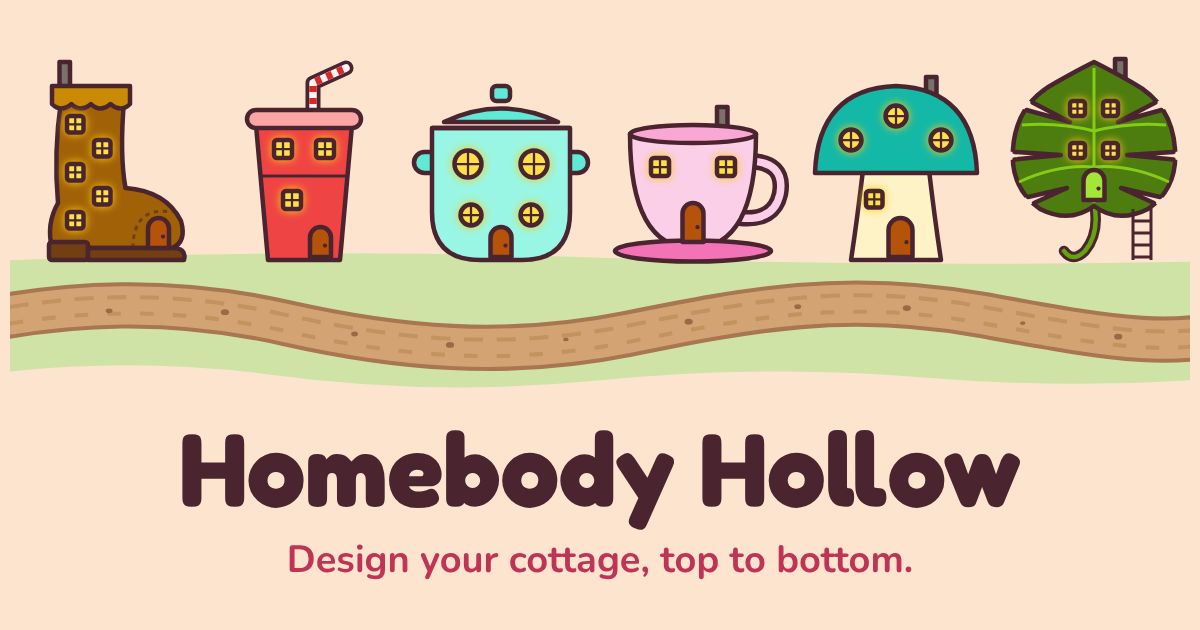
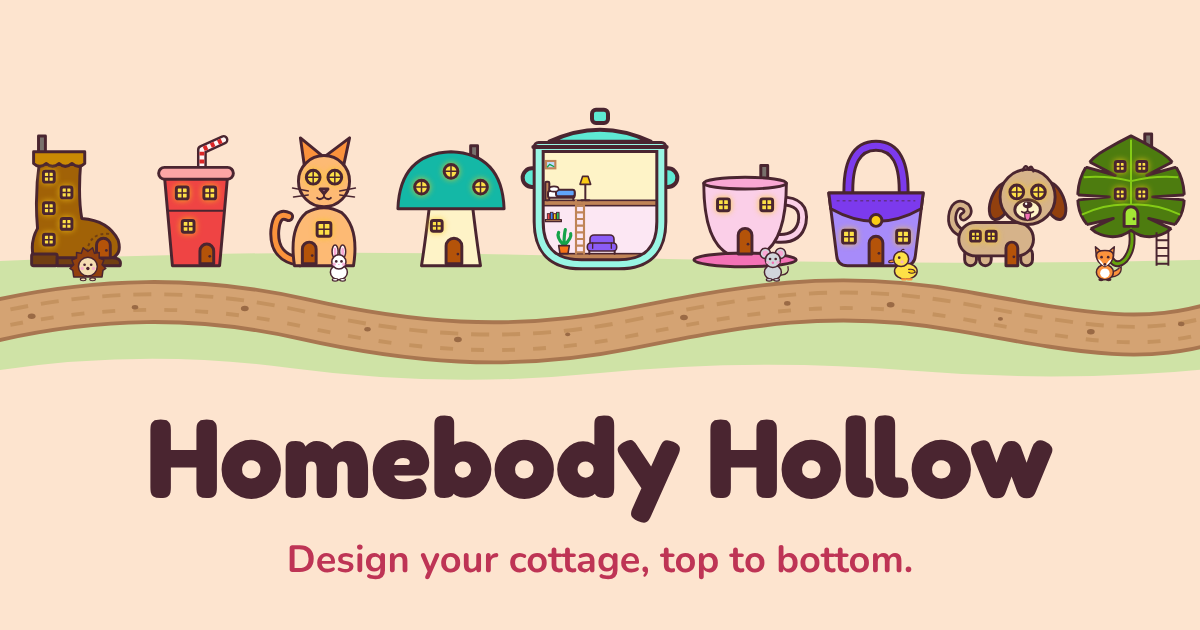
Redraw the shared-link picture, and say what the game is now
The picture a shared link shows had only the first six cottages. It now
has all nine by the road, the pot cut open to show its furnished rooms,
and friends at some of their doors, drawn from the game's own cottages,
rooms and friends. Every page's description of it says so.

The home page's, studio's and village's descriptions (and the ones links
show) now mention furnishing the rooms and picking a friend to move in,
not only painting.

The home-screen and PNG tab icons are the teacup cottage, which hasn't
changed, so they stay as they are.

Claude-Session: https://claude.ai/code/session_01At4zm2UMvYgahaA4U4Be5F

diff --git a/public/index.html b/public/index.html
@@ -4,18 +4,18 @@
     <meta charset="utf-8" />
     <meta name="viewport" content="width=device-width, initial-scale=1" />
     <title>Homebody Hollow: A Tiny Cottage Game</title>
-    <meta name="description" content="A free cozy game you play in your browser: pick a tiny cottage made from something else, like a boot or a teacup, and design it your way." />
+    <meta name="description" content="A free cozy game you play in your browser: build tiny cottages from a boot, a teacup or a mushroom, paint them, furnish their rooms, and pick a friend to move in." />
     <link rel="canonical" href="https://jessicasogge.github.io/homebody-hollow/" />
     <!-- How the link looks when it's shared (iMessage, Slack, Discord, social media) -->
     <meta property="og:type" content="website" />
     <meta property="og:site_name" content="Homebody Hollow" />
     <meta property="og:title" content="Homebody Hollow: A Tiny Cottage Game" />
-    <meta property="og:description" content="A free cozy game you play in your browser: pick a tiny cottage made from something else, like a boot or a teacup, and design it your way." />
+    <meta property="og:description" content="A free cozy game you play in your browser: build tiny cottages from a boot, a teacup or a mushroom, paint them, furnish their rooms, and pick a friend to move in." />
     <meta property="og:url" content="https://jessicasogge.github.io/homebody-hollow/" />
     <meta property="og:image" content="https://jessicasogge.github.io/homebody-hollow/social-preview.png" />
     <meta property="og:image:width" content="1200" />
     <meta property="og:image:height" content="630" />
-    <meta property="og:image:alt" content="Six tiny cottages made from a boot, a soda cup, a cooking pot, a teacup, a mushroom and a monstera leaf, on the grass by a dirt road, above the words Homebody Hollow: Design your cottage, top to bottom." />
+    <meta property="og:image:alt" content="Nine tiny cottages made from a boot, a soda cup, a cat, a mushroom, a cooking pot cut open to show its furnished rooms, a teacup, a handbag, a puppy and a monstera leaf, with little animal friends at their doors, on the grass by a dirt road, above the words Homebody Hollow: Design your cottage, top to bottom." />
     <meta name="twitter:card" content="summary_large_image" />
     <link rel="icon" href="./favicon.svg" type="image/svg+xml" />
     <link rel="icon" href="./favicon-32.png" type="image/png" sizes="32x32" />

diff --git a/public/design.html b/public/design.html
@@ -4,18 +4,18 @@
     <meta charset="utf-8" />
     <meta name="viewport" content="width=device-width, initial-scale=1" />
     <title>Homebody Hollow | Design Your Cottage</title>
-    <meta name="description" content="Design your tiny cottage in Homebody Hollow: pick a color and a pattern, paint any part of it, then move it into your village." />
+    <meta name="description" content="Design your tiny cottage in Homebody Hollow: paint it any color and pattern, furnish its rooms, pick a friend to move in, then move it into your village." />
     <link rel="canonical" href="https://jessicasogge.github.io/homebody-hollow/design.html" />
     <!-- How the link looks when it's shared (iMessage, Slack, Discord, social media) -->
     <meta property="og:type" content="website" />
     <meta property="og:site_name" content="Homebody Hollow" />
     <meta property="og:title" content="Homebody Hollow | Design Your Cottage" />
-    <meta property="og:description" content="Design your tiny cottage in Homebody Hollow: pick a color and a pattern, paint any part of it, then move it into your village." />
+    <meta property="og:description" content="Design your tiny cottage in Homebody Hollow: paint it any color and pattern, furnish its rooms, pick a friend to move in, then move it into your village." />
     <meta property="og:url" content="https://jessicasogge.github.io/homebody-hollow/design.html" />
     <meta property="og:image" content="https://jessicasogge.github.io/homebody-hollow/social-preview.png" />
     <meta property="og:image:width" content="1200" />
     <meta property="og:image:height" content="630" />
-    <meta property="og:image:alt" content="Six tiny cottages made from a boot, a soda cup, a cooking pot, a teacup, a mushroom and a monstera leaf, on the grass by a dirt road, above the words Homebody Hollow: Design your cottage, top to bottom." />
+    <meta property="og:image:alt" content="Nine tiny cottages made from a boot, a soda cup, a cat, a mushroom, a cooking pot cut open to show its furnished rooms, a teacup, a handbag, a puppy and a monstera leaf, with little animal friends at their doors, on the grass by a dirt road, above the words Homebody Hollow: Design your cottage, top to bottom." />
     <meta name="twitter:card" content="summary_large_image" />
     <link rel="icon" href="./favicon.svg" type="image/svg+xml" />
     <link rel="icon" href="./favicon-32.png" type="image/png" sizes="32x32" />

diff --git a/public/village.html b/public/village.html
@@ -4,18 +4,18 @@
     <meta charset="utf-8" />
     <meta name="viewport" content="width=device-width, initial-scale=1" />
     <title>Homebody Hollow | Your Village</title>
-    <meta name="description" content="Your village in Homebody Hollow: six lots by a dirt road, each waiting for a cottage you design." />
+    <meta name="description" content="Your village in Homebody Hollow: six lots by a dirt road, each waiting for a cottage you design and a friend to live in it." />
     <link rel="canonical" href="https://jessicasogge.github.io/homebody-hollow/village.html" />
     <!-- How the link looks when it's shared (iMessage, Slack, Discord, social media) -->
     <meta property="og:type" content="website" />
     <meta property="og:site_name" content="Homebody Hollow" />
     <meta property="og:title" content="Homebody Hollow | Your Village" />
-    <meta property="og:description" content="Your village in Homebody Hollow: six lots by a dirt road, each waiting for a cottage you design." />
+    <meta property="og:description" content="Your village in Homebody Hollow: six lots by a dirt road, each waiting for a cottage you design and a friend to live in it." />
     <meta property="og:url" content="https://jessicasogge.github.io/homebody-hollow/village.html" />
     <meta property="og:image" content="https://jessicasogge.github.io/homebody-hollow/social-preview.png" />
     <meta property="og:image:width" content="1200" />
     <meta property="og:image:height" content="630" />
-    <meta property="og:image:alt" content="Six tiny cottages made from a boot, a soda cup, a cooking pot, a teacup, a mushroom and a monstera leaf, on the grass by a dirt road, above the words Homebody Hollow: Design your cottage, top to bottom." />
+    <meta property="og:image:alt" content="Nine tiny cottages made from a boot, a soda cup, a cat, a mushroom, a cooking pot cut open to show its furnished rooms, a teacup, a handbag, a puppy and a monstera leaf, with little animal friends at their doors, on the grass by a dirt road, above the words Homebody Hollow: Design your cottage, top to bottom." />
     <meta name="twitter:card" content="summary_large_image" />
     <link rel="icon" href="./favicon.svg" type="image/svg+xml" />
     <link rel="icon" href="./favicon-32.png" type="image/png" sizes="32x32" />

diff --git a/public/pick-a-cottage.html b/public/pick-a-cottage.html
@@ -15,7 +15,7 @@
     <meta property="og:image" content="https://jessicasogge.github.io/homebody-hollow/social-preview.png" />
     <meta property="og:image:width" content="1200" />
     <meta property="og:image:height" content="630" />
-    <meta property="og:image:alt" content="Six tiny cottages made from a boot, a soda cup, a cooking pot, a teacup, a mushroom and a monstera leaf, on the grass by a dirt road, above the words Homebody Hollow: Design your cottage, top to bottom." />
+    <meta property="og:image:alt" content="Nine tiny cottages made from a boot, a soda cup, a cat, a mushroom, a cooking pot cut open to show its furnished rooms, a teacup, a handbag, a puppy and a monstera leaf, with little animal friends at their doors, on the grass by a dirt road, above the words Homebody Hollow: Design your cottage, top to bottom." />
     <meta name="twitter:card" content="summary_large_image" />
     <link rel="icon" href="./favicon.svg" type="image/svg+xml" />
     <link rel="icon" href="./favicon-32.png" type="image/png" sizes="32x32" />

diff --git a/public/visit.html b/public/visit.html
@@ -15,7 +15,7 @@
     <meta property="og:image" content="https://jessicasogge.github.io/homebody-hollow/social-preview.png" />
     <meta property="og:image:width" content="1200" />
     <meta property="og:image:height" content="630" />
-    <meta property="og:image:alt" content="Six tiny cottages made from a boot, a soda cup, a cooking pot, a teacup, a mushroom and a monstera leaf, on the grass by a dirt road, above the words Homebody Hollow: Design your cottage, top to bottom." />
+    <meta property="og:image:alt" content="Nine tiny cottages made from a boot, a soda cup, a cat, a mushroom, a cooking pot cut open to show its furnished rooms, a teacup, a handbag, a puppy and a monstera leaf, with little animal friends at their doors, on the grass by a dirt road, above the words Homebody Hollow: Design your cottage, top to bottom." />
     <meta name="twitter:card" content="summary_large_image" />
     <link rel="icon" href="./favicon.svg" type="image/svg+xml" />
     <link rel="icon" href="./favicon-32.png" type="image/png" sizes="32x32" />

diff --git a/README.md b/README.md
@@ -53,9 +53,10 @@ A [Tiny Game Arcade](https://jessicasogge.github.io/tiny-game-arcade/) game.
 - `public/apple-touch-icon.png`, `public/favicon-32.png`: the teacup cottage,
   for a phone's home screen and for browsers without SVG tab icons.
 - `public/social-preview.png`: the picture a shared link shows (iMessage,
-  Slack, Discord, social media): the six cottages by the road, with the
-  title. They were drawn from the game's own cottages, so if a cottage
-  changes, they need drawing again.
+  Slack, Discord, social media): all nine cottages by the road, the pot cut
+  open to show its furnished rooms, with friends at some of their doors,
+  and the title. They were drawn from the game's own cottages, rooms and
+  friends, so if those change, they need drawing again.
 
 ## Playing it locally
 
